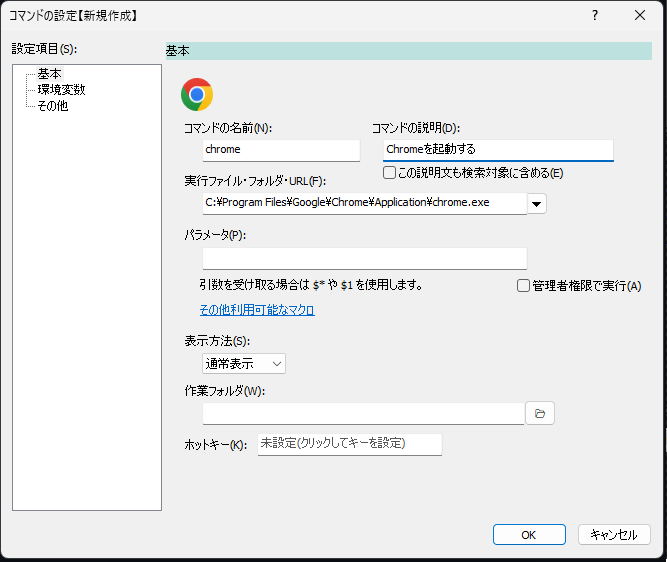
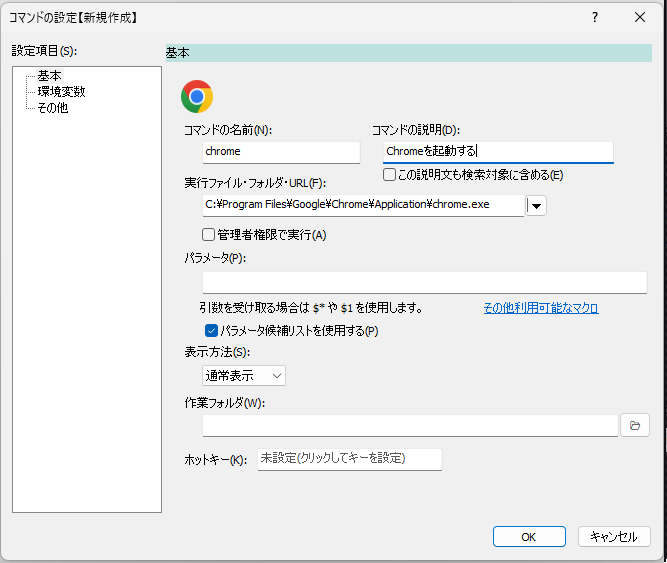
feat : #279 引数に対する候補欄表示をコマンド単位で有効・無効を選択できるようにする

diff --git a/tests/testcode/soyokaze/commands/shellexecute/ShellExecCommandParamTest.cpp b/tests/testcode/soyokaze/commands/shellexecute/ShellExecCommandParamTest.cpp
@@ -1,0 +1,87 @@
+#include "stdafx.h"
+#include "gtest/gtest.h"
+#include "commands/shellexecute/ShellExecCommandParam.h"
+
+using CommandParam = launcherapp::commands::shellexecute::CommandParam;
+
+class MockShellExecCommandEntry : public CommandEntryIF
+{
+public:
+	CString mName;
+	std::map<CString, bool> mBoolValues;
+	std::map<CString, CString> mStringValues;
+
+	LPCTSTR GetName() override { return mName; }
+	void MarkAsUsed() override {}
+	bool IsUsedEntry() override { return false; }
+	bool HasValue(LPCTSTR key) override { return mBoolValues.count(key) > 0 || mStringValues.count(key) > 0; }
+	int GetValueType(LPCTSTR) override { return 0; }
+	int Get(LPCTSTR, int defaultValue) override { return defaultValue; }
+	void Set(LPCTSTR, int) override {}
+	double Get(LPCTSTR, double defaultValue) override { return defaultValue; }
+	void Set(LPCTSTR, double) override {}
+	CString Get(LPCTSTR key, LPCTSTR defaultValue) override
+	{
+		auto iter = mStringValues.find(key);
+		return iter != mStringValues.end() ? iter->second : CString(defaultValue);
+	}
+	void Set(LPCTSTR key, const CString& value) override { mStringValues[key] = value; }
+	bool Get(LPCTSTR key, bool defaultValue) override
+	{
+		auto iter = mBoolValues.find(key);
+		return iter != mBoolValues.end() ? iter->second : defaultValue;
+	}
+	void Set(LPCTSTR key, bool value) override { mBoolValues[key] = value; }
+	size_t GetBytesLength(LPCTSTR) override { return CommandEntryIF::NO_ENTRY; }
+	bool GetBytes(LPCTSTR, uint8_t*, size_t) override { return false; }
+	void SetBytes(LPCTSTR, const uint8_t*, size_t) override {}
+	bool DumpRawData(std::vector<uint8_t>&) override { return false; }
+	uint32_t AddRef() override { return 1; }
+	uint32_t Release() override { return 1; }
+};
+
+TEST(ShellExecCommandParamTest, ExtraCandidateIsEnabledByDefault)
+{
+	CommandParam param;
+
+	EXPECT_TRUE(param.mIsUseExtraCandidate);
+}
+
+TEST(ShellExecCommandParamTest, SaveAndLoadExtraCandidateSetting)
+{
+	CommandParam param;
+	param.mName = _T("sample");
+	param.mIsUseExtraCandidate = FALSE;
+
+	MockShellExecCommandEntry entry;
+	param.Save(&entry);
+
+	EXPECT_FALSE(entry.mBoolValues[_T("use_extracandidate")]);
+
+	CommandParam loaded;
+	loaded.Load(&entry);
+	EXPECT_FALSE(loaded.mIsUseExtraCandidate);
+}
+
+TEST(ShellExecCommandParamTest, LegacyEntryEnablesExtraCandidate)
+{
+	MockShellExecCommandEntry entry;
+	CommandParam loaded;
+
+	loaded.Load(&entry);
+
+	EXPECT_TRUE(loaded.mIsUseExtraCandidate);
+}
+
+TEST(ShellExecCommandParamTest, CopyPreservesExtraCandidateSetting)
+{
+	CommandParam param;
+	param.mIsUseExtraCandidate = FALSE;
+
+	CommandParam copied(param);
+	EXPECT_FALSE(copied.mIsUseExtraCandidate);
+
+	CommandParam assigned;
+	assigned = param;
+	EXPECT_FALSE(assigned.mIsUseExtraCandidate);
+}

diff --git a/src/soyokaze/commands/shellexecute/CommandEditDialog.cpp b/src/soyokaze/commands/shellexecute/CommandEditDialog.cpp
@@ -18,6 +18,7 @@
 #include "utility/LocalPathResolver.h"
 #include "icon/IconLoader.h"
 #include "app/Manual.h"
+#include "setting/AppPreference.h"
 #include "resource.h"
 #include <vector>
 
@@ -84,6 +85,7 @@ void CommandEditDialog::DoDataExchange(CDataExchange* pDX)
 	DDX_Text(pDX, IDC_EDIT_NAME, param.mName);
 	DDX_Text(pDX, IDC_EDIT_DESCRIPTION, param.mDescription);
 	DDX_Check(pDX, IDC_CHECK_RUNASADMIN, param.mIsRunAsAdmin);
+	DDX_Check(pDX, IDC_CHECK_USEEXTRACANDIDATE, param.mIsUseExtraCandidate);
 	DDX_Text(pDX, IDC_EDIT_PATH, param.mNormalAttr.mPath);
 	DDX_Text(pDX, IDC_EDIT_PARAM, param.mNormalAttr.mParam);
 	DDX_Check(pDX, IDC_CHECK_USEDESCRIPTIONFORMATCHING, param.mIsUseDescriptionForMatching);
@@ -116,6 +118,9 @@ END_MESSAGE_MAP()
 BOOL CommandEditDialog::OnInitDialog()
 {
 	__super::OnInitDialog();
+	if (AppPreference::Get()->IsUseExtraCandidateList() == false) {
+		GetDlgItem(IDC_CHECK_USEEXTRACANDIDATE)->ShowWindow(SW_HIDE);
+	}
 
 	in->mHotKey.SubclassDlgItem(IDC_EDIT_HOTKEY2, this);
 	in->mHotKey.SetNotifyId(WM_APP+1);
@@ -374,6 +379,7 @@ void CommandEditDialog::OnOK()
 	param->mNormalAttr.mParam = paramSrc.mNormalAttr.mParam;
 
 	param->mIsRunAsAdmin = paramSrc.mIsRunAsAdmin;
+	param->mIsUseExtraCandidate = paramSrc.mIsUseExtraCandidate;
 	param->mIsUseDescriptionForMatching = paramSrc.mIsUseDescriptionForMatching;
 	param->mIconData = paramSrc.mIconData;
 	param->mHotKeyAttr = paramSrc.mHotKeyAttr;

diff --git a/src/soyokaze/commands/shellexecute/ShellExecCommandParam.cpp b/src/soyokaze/commands/shellexecute/ShellExecCommandParam.cpp
@@ -206,7 +206,8 @@ CommandParam::CommandParam() :
 	mIsRunAsAdmin(FALSE),
 	mIsUse0(FALSE),
 	mIsUseDescriptionForMatching(FALSE),
-	mIsAllowAutoExecute(FALSE)
+	mIsAllowAutoExecute(FALSE),
+	mIsUseExtraCandidate(TRUE)
 {
 }
 
@@ -224,6 +225,7 @@ CommandParam::CommandParam(const CommandParam& rhs)
 	mEnviron = rhs.mEnviron;
 	mHotKeyAttr = rhs.mHotKeyAttr;
 	mIsAllowAutoExecute = rhs.mIsAllowAutoExecute;
+	mIsUseExtraCandidate = rhs.mIsUseExtraCandidate;
 	mActivateWindowParam = rhs.mActivateWindowParam;
 }
 
@@ -245,6 +247,7 @@ CommandParam& CommandParam::operator = (const CommandParam& rhs)
 		mEnviron = rhs.mEnviron;
 		mHotKeyAttr = rhs.mHotKeyAttr;
 		mIsAllowAutoExecute = rhs.mIsAllowAutoExecute;
+		mIsUseExtraCandidate = rhs.mIsUseExtraCandidate;
 		mActivateWindowParam = rhs.mActivateWindowParam;
 	}
 	return *this;
@@ -287,6 +290,7 @@ bool CommandParam::Save(CommandEntryIF* entry) const
 	}
 
 	entry->Set(_T("allow_auto_execute"), mIsAllowAutoExecute ? true : false);
+	entry->Set(_T("use_extracandidate"), mIsUseExtraCandidate ? true : false);
 
 	mActivateWindowParam.Save(entry);
 
@@ -339,6 +343,7 @@ bool CommandParam::Load(CommandEntryIF* entry)
 	mEnviron.swap(envMap);
 
 	mIsAllowAutoExecute = entry->Get(_T("allow_auto_execute"), false) ? TRUE : FALSE;
+	mIsUseExtraCandidate = entry->Get(_T("use_extracandidate"), true) ? TRUE : FALSE;
 
 	mActivateWindowParam.Load(entry);
 

diff --git a/tests/testcode/soyokaze/commands/shellexecute/ShellExecCommandTest.cpp b/tests/testcode/soyokaze/commands/shellexecute/ShellExecCommandTest.cpp
@@ -41,3 +41,22 @@ TEST(ShellExecCommandTest, AcceptsArgumentsWhenPlaceholderExists)
 	EXPECT_TRUE(command.IsAcceptArguments());
 }
 
+TEST(ShellExecCommandTest, DoesNotAcceptArgumentsWhenExtraCandidateIsDisabled)
+{
+	ShellExecCommand command;
+	CommandParam param;
+	param.mNormalAttr.mParam = _T("$1");
+	param.mIsUseExtraCandidate = FALSE;
+	command.SetParam(param);
+
+	EXPECT_FALSE(command.IsAcceptArguments());
+}
+
+TEST(ShellExecCommandTest, DoesNotAcceptArgumentsWhenPlaceholderDoesNotExist)
+{
+	ShellExecCommand command;
+	command.SetArgument(_T("--fixed-option"));
+
+	EXPECT_FALSE(command.IsAcceptArguments());
+}
+

diff --git a/src/soyokaze/settingwindow/InputSettingDialog.cpp b/src/soyokaze/settingwindow/InputSettingDialog.cpp
@@ -83,7 +83,7 @@ void InputSettingDialog::DoDataExchange(CDataExchange* pDX)
 	__super::DoDataExchange(pDX);
 
 	DDX_Check(pDX, IDC_CHECK_IMEOFF, mIsIMEOff);
-	DDX_Check(pDX, IDC_CHECK_USEEXTRARACANDIDATE, mIsUseExtraCandidateList);
+	DDX_Check(pDX, IDC_CHECK_USEEXTRACANDIDATE, mIsUseExtraCandidateList);
 	DDX_Check(pDX, IDC_CHECK_IGNOREUNC, mIsIgnoreUNC);
 	DDX_Check(pDX, IDC_CHECK_ENABLEMIGEMO, mIsEnableMigemo);
 }

diff --git a/src/soyokaze/resource.h b/src/soyokaze/resource.h
@@ -600,7 +600,7 @@
 #define IDC_LIST_PLUGINS                1248
 #define IDC_BUTTON_PREFERENCE           1249
 #define IDC_CHECK_USEBGIMAGE            1250
-#define IDC_CHECK_USEEXTRARACANDIDATE   1251
+#define IDC_CHECK_USEEXTRACANDIDATE     1251
 #define IDC_EDIT_GROUP_PATH             1300
 #define IDC_EDIT_GROUP_PARAM            1301
 #define IDC_EDIT_GROUP_WORKDIR          1302

diff --git a/src/soyokaze/commands/shellexecute/ShellExecCommand.cpp b/src/soyokaze/commands/shellexecute/ShellExecCommand.cpp
@@ -184,6 +184,10 @@ bool ShellExecCommand::Resolve(CString& value)
 
 bool ShellExecCommand::IsAcceptArguments()
 {
+	if (in->mParam.mIsUseExtraCandidate == FALSE) {
+		return false;
+	}
+
 	const auto& normalParam = in->GetNormalAttr().mParam;
 	const auto& noParamParam = in->GetNoParamAttr().mParam;
 	auto hasArgumentPlaceholder = [](const CString& value) {

diff --git a/src/soyokaze/commands/shellexecute/ShellExecCommandParam.h b/src/soyokaze/commands/shellexecute/ShellExecCommandParam.h
@@ -83,6 +83,9 @@ public:
 	// 自動実行を許可するか?
 	BOOL mIsAllowAutoExecute;
 
+	// パラメータ候補リストを使用するか?
+	BOOL mIsUseExtraCandidate;
+
 	// アイコンデータ(空の場合はデフォルトアイコンを使用)
 	std::vector<uint8_t> mIconData;
 

diff --git a/CHANGELOG.md b/CHANGELOG.md
@@ -4,6 +4,7 @@
 
 ### Added
 
+- #279 通常コマンドごとにパラメータ候補リストの表示を切り替える機能を追加
 - #283 パラメータ候補リストの表示を設定で切り替える機能を追加
 
 ### Fixed
